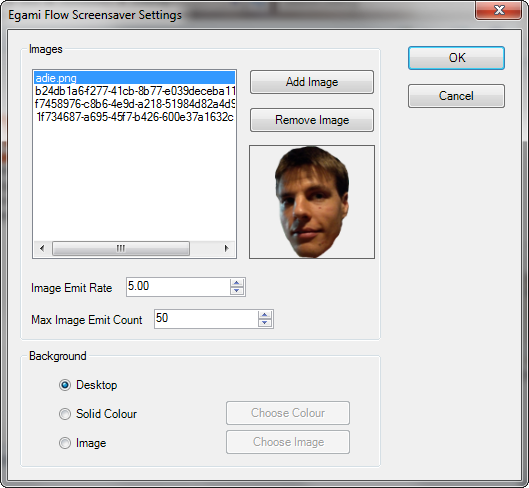
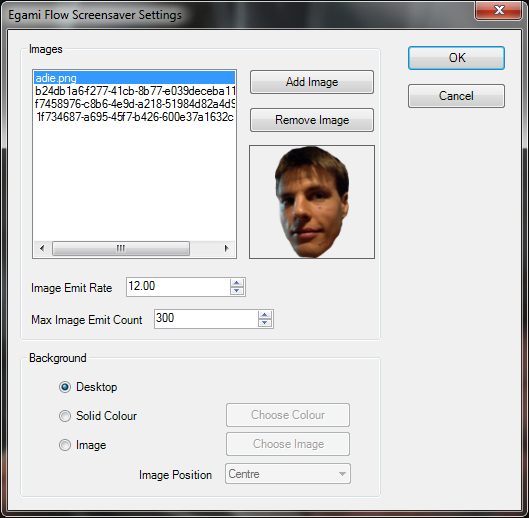
Update README.md
Add documentation for new background image mode

Changed region(s): [[0.0, 0.0, 1.0, 1.0], [0.0605, 0.0922, 0.7259, 0.5533], [0.6957, 0.6762, 0.7259, 0.707]]

diff --git a/README.md b/README.md
@@ -50,3 +50,15 @@ The screensaver will display a chosen colour as the background.
 
 #### Image
 The screensaver will display a chosen image as the background.
+
+##### Image Position
+How the screensaver will position the chosen background image. Possible values are described
+in the following table:
+
+| Value   | Description                                                                                                                                                        |
+| ------- | ------------------------------------------------------------------------------------------------------------------------------------------------------------------ |
+| Centre  | The image will remain centred at its original size.                                                                                                                |
+| Fill    | The image will scale up or down to the minimum possible size required to fill the entire background, maintaining the images original aspect ratio.                 |
+| Fit     | The image will scale up or down to the maximum possible size required to display the entire image on the background, maintaining the images original aspect ratio. |
+| Stretch | The image will scale to the same size as the background area, ignoring the images original aspect ratio.                                                           |
+| Tile    |  The image will be repeated across the screen at its original size.                                                                                                |
